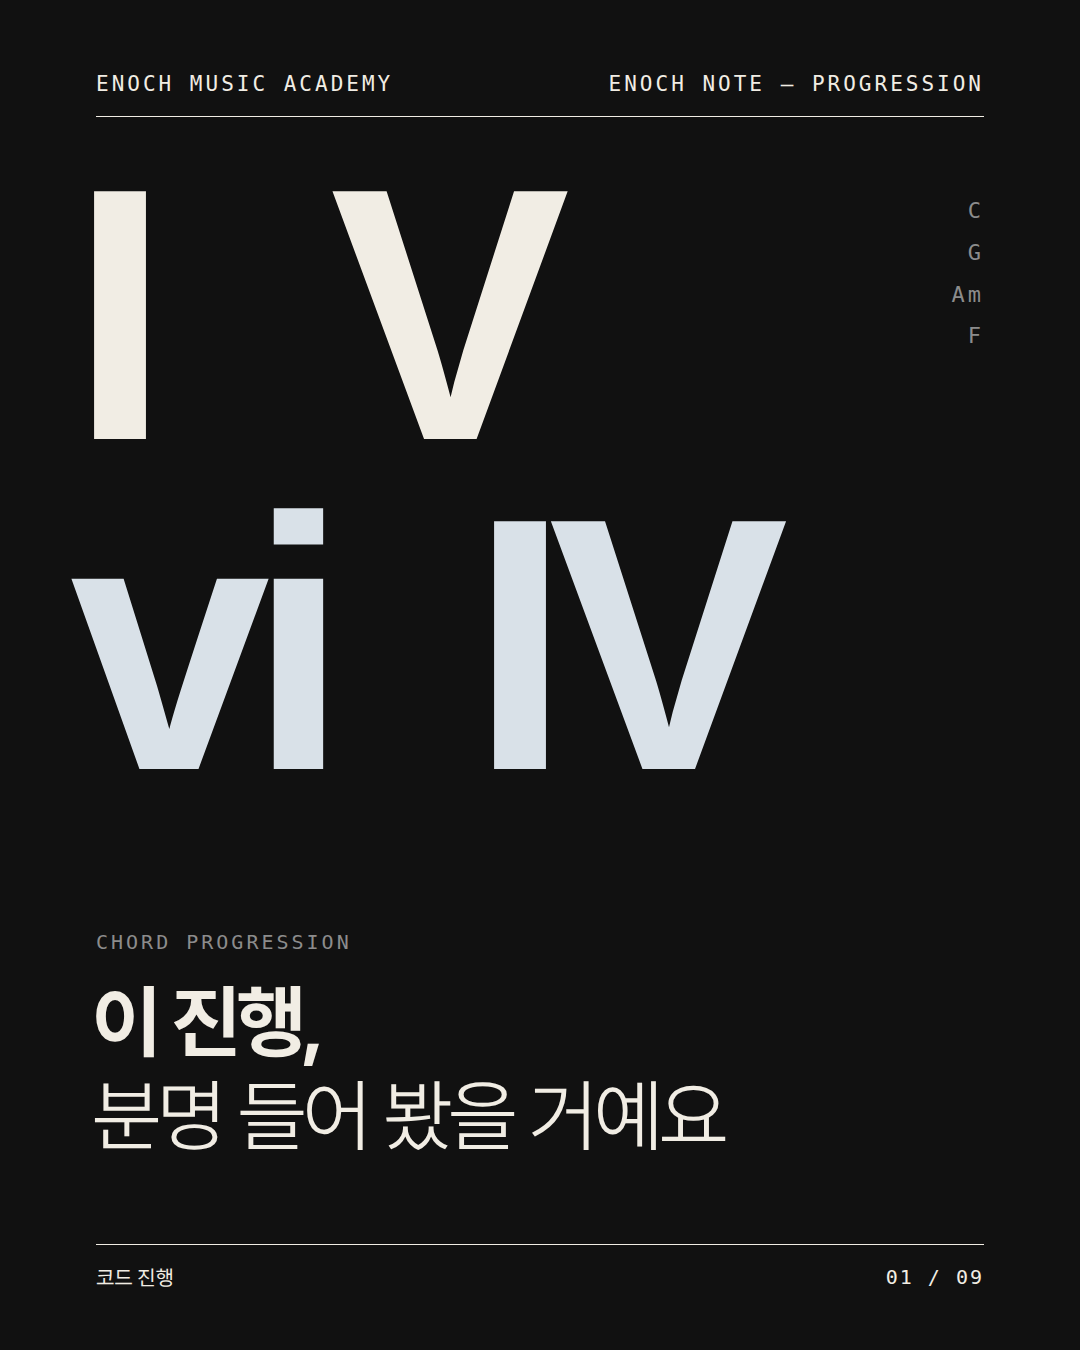
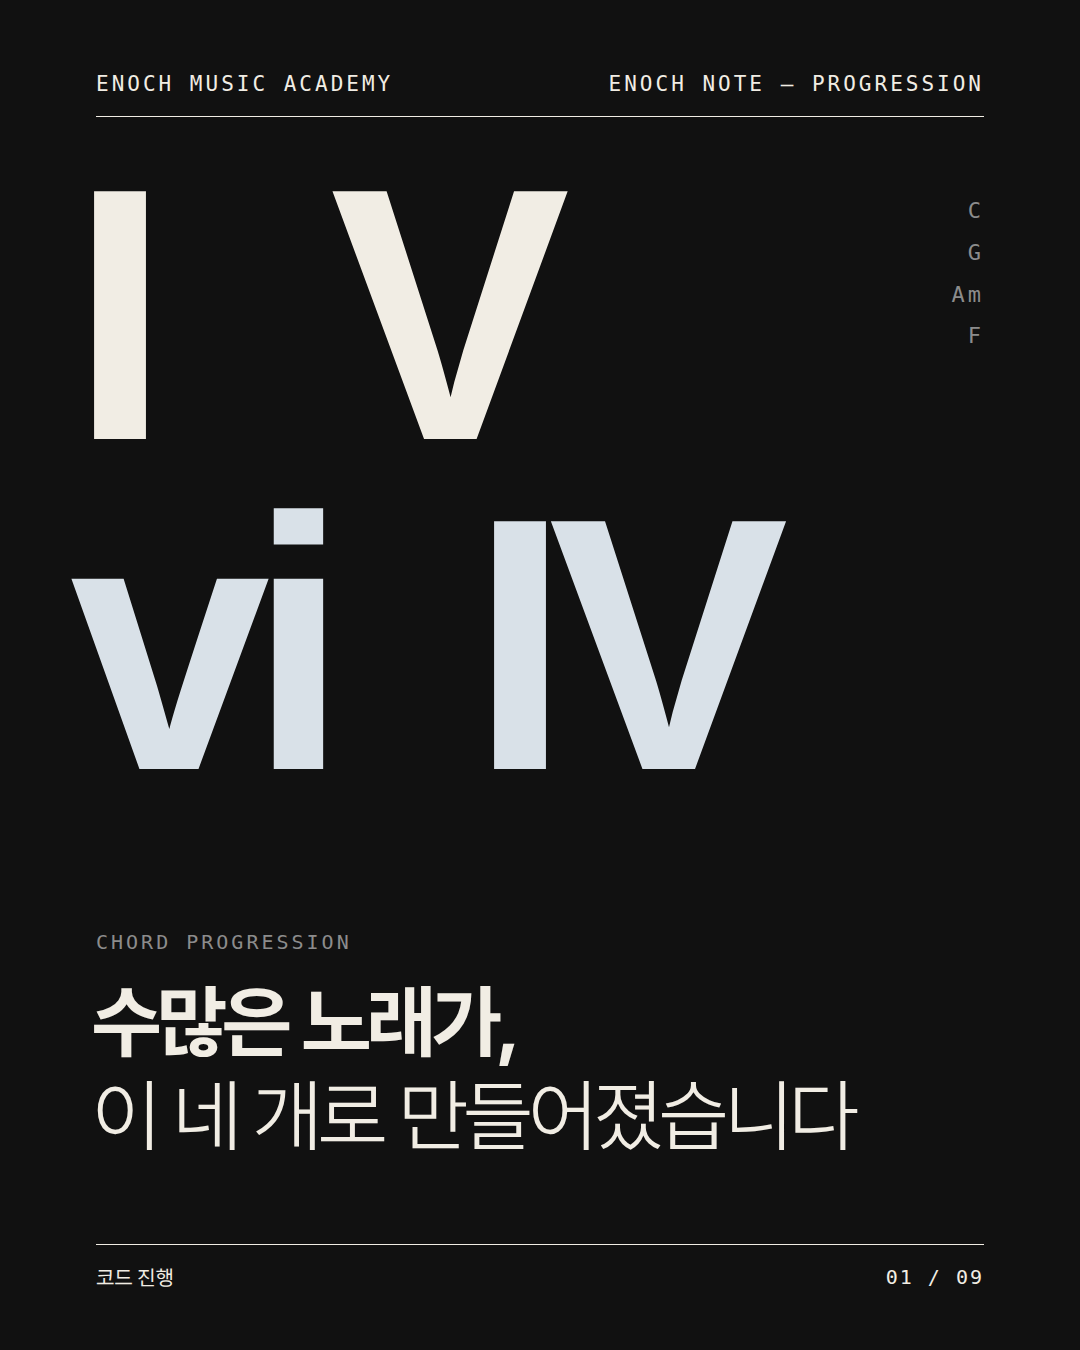
코드 진행: 표지 제목·5장 문구·캡션 첫 줄 변경
Claude-Session: https://claude.ai/code/session_01HGbZvgMeYrbU7mY8bwfjyb

Changed region(s): [[0.0917, 0.7156, 0.7944, 0.8711]]

diff --git a/output/노트_코드진행/deck.html b/output/노트_코드진행/deck.html
@@ -50,7 +50,7 @@
 <div class="X" style="left:470px;top:500px;font-size:360px;color:#D9E1E8">IV</div>
 <div class="a" style="right:96px;top:190px;text-align:right;font-family:var(--mono);font-size:22px;letter-spacing:3px;color:#8C8C8C;line-height:1.9">C<br>G<br>Am<br>F</div>
 <div class="lab a" style="left:96px;top:930px">Chord Progression</div>
-<div class="h a" style="left:92px;top:975px;font-size:80px;letter-spacing:-4px;line-height:1.18">이 진행,<br><em>분명 들어 봤을 거예요</em></div>
+<div class="h a" style="left:92px;top:975px;font-size:80px;letter-spacing:-4px;line-height:1.18">수많은 노래가,<br><em>이 네 개로 만들어졌습니다</em></div>
 <div class="ft"><span>코드 진행</span><span>01 / 09</span></div></section><section class="s" id="c2"><div class="hd"><span>ENOCH MUSIC ACADEMY</span><span>WHAT IS A PROGRESSION</span></div>
 <div class="lab a" style="left:96px;top:200px">What is a Progression</div>
 <div class="h a" style="left:92px;top:250px">코드 진행은,<br><em>코드가 놓이는 순서</em></div>
@@ -88,7 +88,7 @@
 <div><div class="X" style="position:relative;font-size:250px;color:#F1EDE4">Am</div><div class="lab" style="margin-top:20px;text-transform:none;font-size:26px">vi</div></div>
 <div><div class="X" style="position:relative;font-size:250px;color:#F1EDE4">F</div><div class="lab" style="margin-top:20px;text-transform:none;font-size:26px">IV</div></div>
 </div>
-<div class="p a" style="left:96px;right:96px;top:1000px">셀 수 없이 많은 노래가 이 네 코드로 만들어졌어요.<br>비틀스의 「Let It Be」도 이 진행으로 시작합니다.</div>
+<div class="p a" style="left:96px;right:96px;top:1000px">키를 바꿔도, 장르를 바꿔도 같은 순서.<br>비틀스의 「Let It Be」도 이 진행으로 시작합니다.</div>
 <div class="ft"><span>코드 진행</span><span>05 / 09</span></div></section><section class="s" id="c6"><div class="hd"><span>ENOCH MUSIC ACADEMY</span><span>PROGRESSION 02</span></div>
 <div class="bu a" style="left:0;right:0;top:150px;height:350px"></div>
 <div class="X" style="left:80px;top:215px;font-size:230px">Canon</div>

diff --git a/output/노트_코드진행/gen.py b/output/노트_코드진행/gen.py
@@ -62,7 +62,7 @@ S.append(f"""<section class="s dark" id="c1">{HD()}
 <div class="X" style="left:470px;top:500px;font-size:360px;color:#D9E1E8">IV</div>
 <div class="a" style="right:96px;top:190px;text-align:right;font-family:var(--mono);font-size:22px;letter-spacing:3px;color:#8C8C8C;line-height:1.9">C<br>G<br>Am<br>F</div>
 <div class="lab a" style="left:96px;top:930px">Chord Progression</div>
-<div class="h a" style="left:92px;top:975px;font-size:80px;letter-spacing:-4px;line-height:1.18">이 진행,<br><em>분명 들어 봤을 거예요</em></div>
+<div class="h a" style="left:92px;top:975px;font-size:80px;letter-spacing:-4px;line-height:1.18">수많은 노래가,<br><em>이 네 개로 만들어졌습니다</em></div>
 {FT(1)}</section>""")
 # 02 진행이란
 S.append(f"""<section class="s" id="c2">{HD("WHAT IS A PROGRESSION")}
@@ -108,7 +108,7 @@ S.append(f"""<section class="s dark" id="c5">{HD("PROGRESSION 01")}
 <div><div class="X" style="position:relative;font-size:250px;color:#F1EDE4">Am</div><div class="lab" style="margin-top:20px;text-transform:none;font-size:26px">vi</div></div>
 <div><div class="X" style="position:relative;font-size:250px;color:#F1EDE4">F</div><div class="lab" style="margin-top:20px;text-transform:none;font-size:26px">IV</div></div>
 </div>
-<div class="p a" style="left:96px;right:96px;top:1000px">셀 수 없이 많은 노래가 이 네 코드로 만들어졌어요.<br>비틀스의 「Let It Be」도 이 진행으로 시작합니다.</div>
+<div class="p a" style="left:96px;right:96px;top:1000px">키를 바꿔도, 장르를 바꿔도 같은 순서.<br>비틀스의 「Let It Be」도 이 진행으로 시작합니다.</div>
 {FT(5)}</section>""")
 # 06 캐논 진행
 cn=[('C','I'),('G','V'),('Am','vi'),('Em','iii'),('F','IV'),('C','I'),('F','IV'),('G','V')]

diff --git a/output/노트_코드진행/caption.md b/output/노트_코드진행/caption.md
@@ -1,6 +1,6 @@
 # 캡션: 코드 진행
 
-이 진행, 분명 들어 봤을 거예요.
+수많은 노래가, 이 네 개로 만들어졌습니다.
 
 코드 진행은 코드가 놓이는 순서예요. 숫자로 부르면 키가 바뀌어도 같은 진행이 보입니다. I – V – vi – IV, 캐논 진행, 그리고 재즈의 투 · 파이브 · 원. 좋아하는 노래의 코드를 숫자로 바꿔 보세요. 익숙한 진행이 보이기 시작할 거예요.
 
